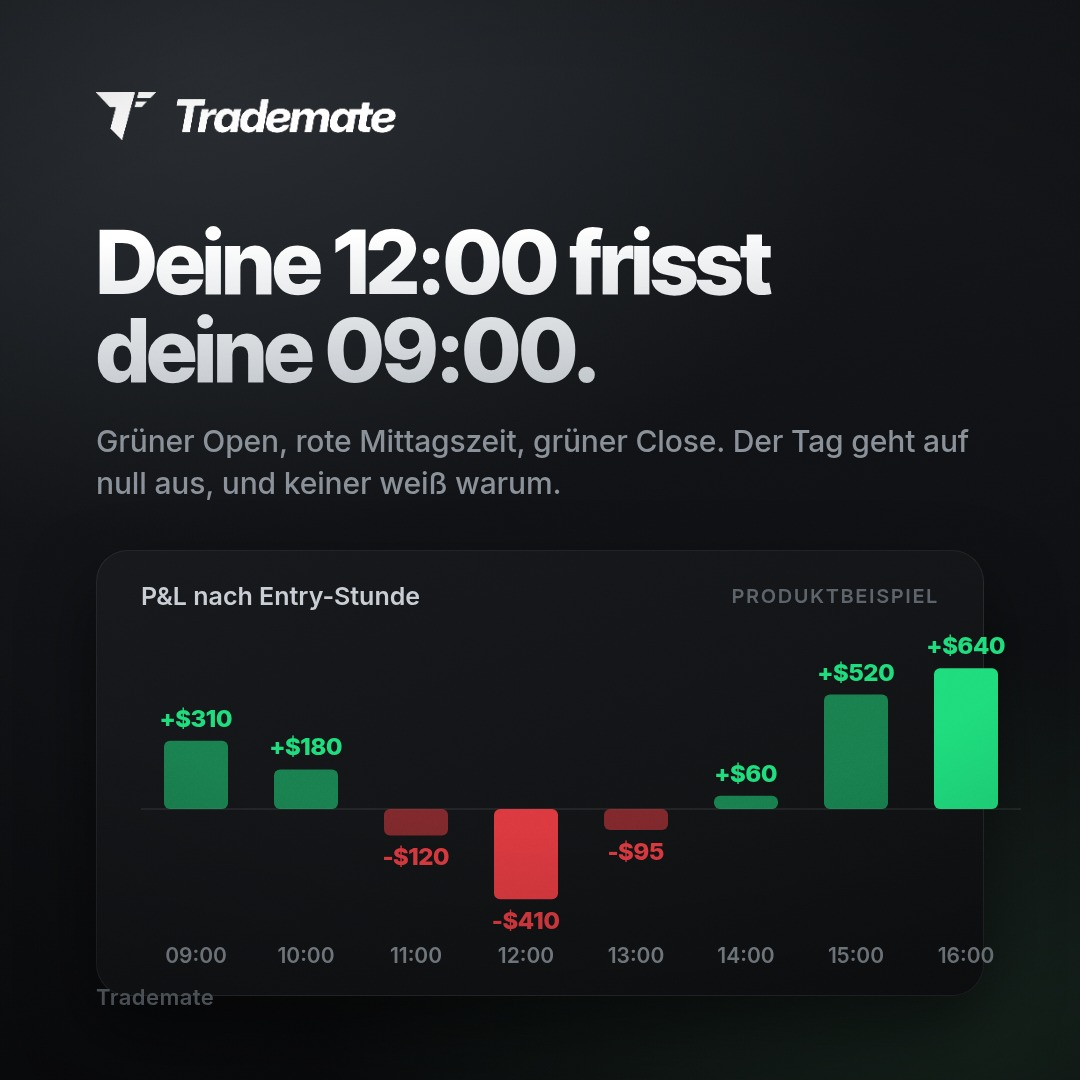
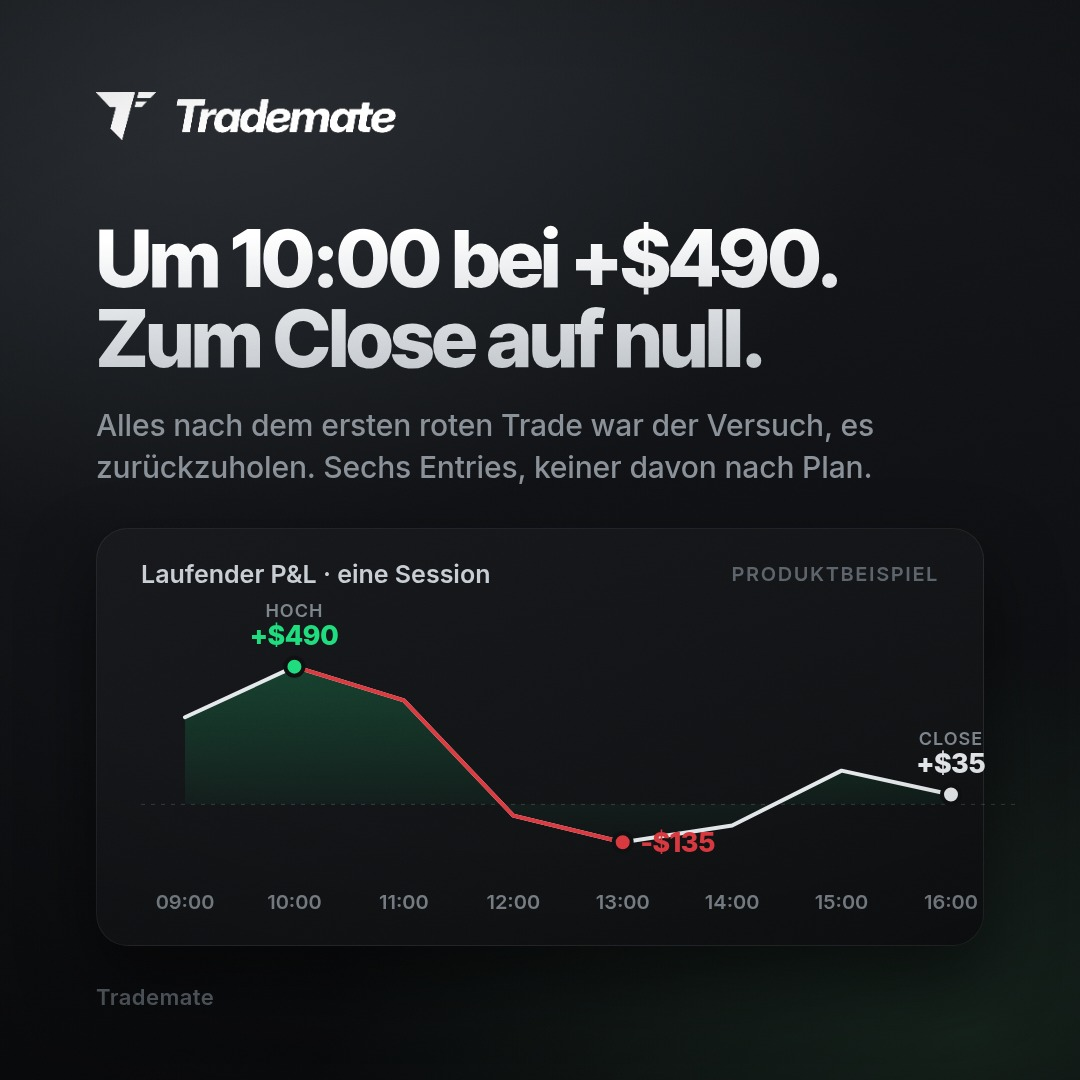
Pain posts: give-back curve and off-plan exits, sharper copy
Day post now shows one session as a running P&L - +$490 high, the red
give-back, +$35 at the close - instead of hourly bars. Swing post lists
six trades with an on-plan column, flags the two off-plan exits in red
and lets the month still read positive. Headlines shortened to two
lines; captions rewritten around the same two moments.

Claude-Session: https://claude.ai/code/session_01N2gUmRZUhZ4hqjJePYK53L

diff --git a/posts/pain-day-swing/src/post.html b/posts/pain-day-swing/src/post.html
@@ -111,11 +111,15 @@
   .rows>div span{font-family:'Inter';font-size:25px;font-weight:600;color:#c8ced4;}
   .rows>div b{font-size:34px;font-weight:800;letter-spacing:-.03em;}
   .rows>div.hi{background:linear-gradient(90deg,rgba(31,221,127,.12),rgba(31,221,127,0));margin:0 -14px;padding-left:14px;padding-right:14px;border-radius:12px;border-bottom-color:transparent;}
-  .rows .net{grid-column:1/-1;border-bottom:none;padding-top:18px;margin-top:4px;border-top:1px solid rgba(255,255,255,.14);}
+  .rows.one{grid-template-columns:1fr;gap:0;}
+  .rows.one>div{padding:8px 0;} .rows.one>div span{width:190px;font-size:24px;} .rows.one>div b{font-size:30px;width:130px;text-align:right;}
+  .rows.one>div em{font-style:normal;font-family:'Inter';font-size:22px;font-weight:600;color:#5d646b;flex:1;padding-left:20px;}
+  .rows.one>div.off em{color:#DC3A40;} .rows.one>div.off span{color:#fff;}
+  .rows .net{grid-column:1/-1;border-bottom:none;padding-top:14px;margin-top:2px;border-top:1px solid rgba(255,255,255,.14);}
   .rows .net span{font-size:27px;color:#fff;} .rows .net b{font-size:44px;}
-  body[data-slide="day"] .hl, body[data-slide="swing"] .hl{font-size:88px;}
+  body[data-slide="day"] .hl, body[data-slide="swing"] .hl{font-size:80px;}
   body[data-slide="day"] .sub, body[data-slide="swing"] .sub{font-size:30px;max-width:880px;}
-  body[data-lang="de"][data-slide="swing"] .sub{font-size:28px;margin-top:20px;}
+  body[data-slide="swing"] .sub{font-size:28px;margin-top:20px;}
   .disc{position:absolute;left:88px;right:88px;bottom:70px;text-align:center;font-family:'Inter';font-size:19px;font-weight:500;color:#5d646b;line-height:1.45;}
 </style></head>
 <body>
@@ -149,10 +153,10 @@ en:{
   stB:'Auto charts', stBd:'Every trade gets its chart attached automatically. Entry, exit, stop, target.',
   vote:'Vote below', zoneA:'Poll sticker goes here', zoneB:'Options: Backtesting · Auto charts',
   disc:'Product concept. Features shown are planned, not final.',
-  dayH:'Your 12:00 is eating your 09:00.', dayS:'Green open, red lunch, green close. The day nets out flat and nobody knows why.',
-  dayM:'P&L by entry hour', dayF:'Product example',
-  swH:'One trade carried the month.', swS:'Six swings. Five of them nearly cancelled out. The month is up 1.7R and you cannot tell yet if that was the setup or luck.',
-  swM:'This month · 6 swing trades', swN:'Net', swF:'Product example'
+  dayH:'Up $490 at 10:00. Flat at the close.', dayS:'Everything after the first red trade was an attempt to get it back. Six entries, none of them on the plan.',
+  dayM:'Running P&L · one session', dayF:'Product example', dayHi:'High', dayCl:'Close',
+  swH:'Three stops. Then you changed the rules.', swS:'The setup did not change. The trader did. Two of six exits were off plan, and they cost more than the stops.',
+  swM:'This month · 6 swing trades', swN:'Net', swF:'Product example', plan:'On plan', early:'Exited early', moved:'Stop moved'
 },
 de:{
   swipe:'Wischen →', brand:'Trademate', concept:'Konzept, kein finales UI', of:'von',
@@ -178,10 +182,10 @@ de:{
   stB:'Auto-Charts', stBd:'Jeder Trade bekommt seinen Chart automatisch angehängt. Entry, Exit, Stop, Ziel.',
   vote:'Stimm unten ab', zoneA:'Umfrage-Sticker hier platzieren', zoneB:'Optionen: Backtesting · Auto-Charts',
   disc:'Produktkonzept. Gezeigte Funktionen sind geplant, nicht final.',
-  dayH:'Deine 12:00 frisst deine 09:00.', dayS:'Grüner Open, rote Mittagszeit, grüner Close. Der Tag geht auf null aus, und keiner weiß warum.',
-  dayM:'P&L nach Entry-Stunde', dayF:'Produktbeispiel',
-  swH:'Ein Trade hat den Monat getragen.', swS:'Sechs Swings. Fünf davon haben sich fast aufgehoben. Der Monat steht bei +1,7R, und ob das Setup oder Glück war, weißt du noch nicht.',
-  swM:'Dieser Monat · 6 Swing-Trades', swN:'Netto', swF:'Produktbeispiel'
+  dayH:'Um 10:00 bei +$490. Zum Close auf null.', dayS:'Alles nach dem ersten roten Trade war der Versuch, es zurückzuholen. Sechs Entries, keiner davon nach Plan.',
+  dayM:'Laufender P&L · eine Session', dayF:'Produktbeispiel', dayHi:'Hoch', dayCl:'Close',
+  swH:'Drei Stops. Dann hast du die Regeln geändert.', swS:'Das Setup war dasselbe. Der Trader nicht. Zwei von sechs Exits liefen nicht nach Plan – und kosteten mehr als die Stops.',
+  swM:'Dieser Monat · 6 Swing-Trades', swN:'Netto', swF:'Produktbeispiel', plan:'Nach Plan', early:'Zu früh raus', moved:'Stop verschoben'
 }}[LANG];
 
 function candles(){ // deterministic little 5m chart for slide 6
@@ -204,6 +208,26 @@ function candles(){ // deterministic little 5m chart for slide 6
 
 const logo='<img class="logo" src="logo.png" alt="Trademate">';
 const foot=(n)=>'<div class="foot"><span>'+C.brand+'</span><span>'+(n<7?C.swipe:'')+'</span><span>'+n+' / 7</span></div>';
+function runningPnl(){
+  const pts=[['09:00',310],['10:00',490],['11:00',370],['12:00',-40],['13:00',-135],['14:00',-75],['15:00',120],['16:00',35]];
+  const W=880,H=330,padL=44,padR=70,top=54,bot=54,min=-230,max=560;
+  const x=i=>padL+i*(W-padL-padR)/(pts.length-1), y=v=>top+(max-v)/(max-min)*(H-top-bot);
+  let d=pts.map((p,i)=>(i?'L':'M')+x(i)+' '+y(p[1])).join(' ');
+  let s='<svg width="'+W+'" height="'+H+'" viewBox="0 0 '+W+' '+H+'">';
+  s+='<defs><linearGradient id="gA" x1="0" y1="0" x2="0" y2="1"><stop offset="0" stop-color="#1FDD7F" stop-opacity=".22"/><stop offset="1" stop-color="#1FDD7F" stop-opacity="0"/></linearGradient></defs>';
+  s+='<line x1="0" x2="'+W+'" y1="'+y(0)+'" y2="'+y(0)+'" stroke="rgba(255,255,255,.16)" stroke-dasharray="4 6"/>';
+  s+='<path d="'+d+' L'+x(pts.length-1)+' '+y(0)+' L'+x(0)+' '+y(0)+'Z" fill="url(#gA)"/>';
+  s+='<path d="'+d+'" fill="none" stroke="#e6e9ec" stroke-width="4" stroke-linejoin="round" stroke-linecap="round"/>';
+  // give-back segment in red
+  s+='<path d="M'+x(1)+' '+y(490)+' L'+x(2)+' '+y(370)+' L'+x(3)+' '+y(-40)+' L'+x(4)+' '+y(-135)+'" fill="none" stroke="#DC3A40" stroke-width="4" stroke-linejoin="round" stroke-linecap="round"/>';
+  pts.forEach((p,i)=>s+='<text x="'+x(i)+'" y="'+(H-14)+'" text-anchor="middle" font-family="Inter" font-size="20" font-weight="600" fill="#7e868d">'+p[0]+'</text>');
+  const mark=(i,v,l,col,dy,side)=>{s+='<circle cx="'+x(i)+'" cy="'+y(v)+'" r="9" fill="'+col+'" stroke="#0e1012" stroke-width="4"/>';
+    if(side){s+='<text x="'+(x(i)+18)+'" y="'+(y(v)+10)+'" font-family="Inter Tight" font-size="27" font-weight="800" fill="'+col+'">'+(v>=0?'+':'-')+'$'+Math.abs(v)+'</text>';return;}
+    s+='<text x="'+x(i)+'" y="'+(y(v)+dy)+'" text-anchor="middle" font-family="Inter Tight" font-size="27" font-weight="800" fill="'+col+'">'+(v>=0?'+':'-')+'$'+Math.abs(v)+'</text>';
+    s+='<text x="'+x(i)+'" y="'+(y(v)+dy+(dy<0?-28:26))+'" text-anchor="middle" font-family="Inter" font-size="18" font-weight="600" fill="#7e868d" letter-spacing="1">'+l.toUpperCase()+'</text>';};
+  mark(1,490,C.dayHi,'#1FDD7F',-22); mark(4,-135,'','#DC3A40',0,true); mark(7,35,C.dayCl,'#e6e9ec',-22);
+  return s+'</svg>';
+}
 function hourBars(){
   const d=[['09',310],['10',180],['11',-120],['12',-410],['13',-95],['14',60],['15',520],['16',640]];
   const W=880,H=350,base=190,sc=0.22,bw=64,gap=(W-8*bw)/8;
@@ -215,15 +239,15 @@ function hourBars(){
     s+='<text x="'+(x+bw/2)+'" y="'+(H-6)+'" text-anchor="middle" font-family="Inter" font-size="21" font-weight="600" fill="#7e868d">'+h+':00</text>';});
   return s+'</svg>';
 }
-const swingRows=[['AAPL','+1.2R'],['EURUSD','-1.0R'],['NVDA','-1.0R'],['XAUUSD','+0.4R'],['GBPJPY','-1.0R'],['MSFT','+3.1R']];
+const swingRows=[['AAPL','+1.2R','plan'],['EURUSD','-1.0R','plan'],['NVDA','-1.0R','plan'],['XAUUSD','+0.4R','early'],['GBPJPY','-1.4R','moved'],['MSFT','+3.1R','plan']];
 const S={
  day:()=>logo+'<div class="hl" style="margin-top:78px">'+C.dayH+'</div><div class="sub">'+C.dayS+'</div>'
-   +'<div class="card" style="margin-top:46px;padding:30px 44px 22px"><div class="hdr"><div class="t">'+C.dayM+'</div><div class="m">'+C.dayF+'</div></div><div style="margin-top:8px">'+hourBars()+'</div></div>'
+   +'<div class="card" style="margin-top:40px;padding:30px 44px 18px"><div class="hdr"><div class="t">'+C.dayM+'</div><div class="m">'+C.dayF+'</div></div><div style="margin-top:4px">'+runningPnl()+'</div></div>'
    +'<div class="foot"><span>'+C.brand+'</span><span></span><span></span></div>',
  swing:()=>logo+'<div class="hl" style="margin-top:78px">'+C.swH+'</div><div class="sub">'+C.swS+'</div>'
-   +'<div class="card" style="margin-top:40px;padding:30px 44px 26px"><div class="hdr"><div class="t">'+C.swM+'</div><div class="m">'+C.swF+'</div></div>'
-   +'<div class="rows">'+swingRows.map(([a,b],i)=>'<div'+(i===5?' class="hi"':'')+'><span>'+a+'</span><b class="'+(b[0]==='+'?'g':'r')+'">'+b+'</b></div>').join('')
-   +'<div class="net"><span>'+C.swN+'</span><b class="g">+1.7R</b></div></div></div>'
+   +'<div class="card" style="margin-top:34px;padding:28px 44px 22px"><div class="hdr"><div class="t">'+C.swM+'</div><div class="m">'+C.swF+'</div></div>'
+   +'<div class="rows one">'+swingRows.map(([a,b,n])=>'<div'+(n!=='plan'?' class="off"':'')+'><span>'+a+'</span><em>'+C[n]+'</em><b class="'+(b[0]==='+'?'g':'r')+'">'+b+'</b></div>').join('')
+   +'<div class="net"><span>'+C.swN+'</span><b class="g">+1.3R</b></div></div></div>'
    +'<div class="foot"><span>'+C.brand+'</span><span></span><span></span></div>',
  1:()=>logo+'<div class="eyebrow">'+C.s1e+'</div><div class="hl">'+C.s1h+'</div><div class="sub">'+C.s1s+'</div>'+foot(1),
  2:()=>logo+'<div class="hl" style="margin-top:70px">'+C.s2h+'</div><div class="cols"><div class="col"><h3>'+C.day+'</h3><ul>'+C.d.map(x=>'<li>'+x+'</li>').join('')+'</ul></div><div class="col s"><h3>'+C.swing+'</h3><ul>'+C.s.map(x=>'<li>'+x+'</li>').join('')+'</ul></div></div>'+foot(2),

diff --git a/posts/story-feature-poll/src/post.html b/posts/story-feature-poll/src/post.html
@@ -111,11 +111,15 @@
   .rows>div span{font-family:'Inter';font-size:25px;font-weight:600;color:#c8ced4;}
   .rows>div b{font-size:34px;font-weight:800;letter-spacing:-.03em;}
   .rows>div.hi{background:linear-gradient(90deg,rgba(31,221,127,.12),rgba(31,221,127,0));margin:0 -14px;padding-left:14px;padding-right:14px;border-radius:12px;border-bottom-color:transparent;}
-  .rows .net{grid-column:1/-1;border-bottom:none;padding-top:18px;margin-top:4px;border-top:1px solid rgba(255,255,255,.14);}
+  .rows.one{grid-template-columns:1fr;gap:0;}
+  .rows.one>div{padding:8px 0;} .rows.one>div span{width:190px;font-size:24px;} .rows.one>div b{font-size:30px;width:130px;text-align:right;}
+  .rows.one>div em{font-style:normal;font-family:'Inter';font-size:22px;font-weight:600;color:#5d646b;flex:1;padding-left:20px;}
+  .rows.one>div.off em{color:#DC3A40;} .rows.one>div.off span{color:#fff;}
+  .rows .net{grid-column:1/-1;border-bottom:none;padding-top:14px;margin-top:2px;border-top:1px solid rgba(255,255,255,.14);}
   .rows .net span{font-size:27px;color:#fff;} .rows .net b{font-size:44px;}
-  body[data-slide="day"] .hl, body[data-slide="swing"] .hl{font-size:88px;}
+  body[data-slide="day"] .hl, body[data-slide="swing"] .hl{font-size:80px;}
   body[data-slide="day"] .sub, body[data-slide="swing"] .sub{font-size:30px;max-width:880px;}
-  body[data-lang="de"][data-slide="swing"] .sub{font-size:28px;margin-top:20px;}
+  body[data-slide="swing"] .sub{font-size:28px;margin-top:20px;}
   .disc{position:absolute;left:88px;right:88px;bottom:70px;text-align:center;font-family:'Inter';font-size:19px;font-weight:500;color:#5d646b;line-height:1.45;}
 </style></head>
 <body>
@@ -149,10 +153,10 @@ en:{
   stB:'Auto charts', stBd:'Every trade gets its chart attached automatically. Entry, exit, stop, target.',
   vote:'Vote below', zoneA:'Poll sticker goes here', zoneB:'Options: Backtesting · Auto charts',
   disc:'Product concept. Features shown are planned, not final.',
-  dayH:'Your 12:00 is eating your 09:00.', dayS:'Green open, red lunch, green close. The day nets out flat and nobody knows why.',
-  dayM:'P&L by entry hour', dayF:'Product example',
-  swH:'One trade carried the month.', swS:'Six swings. Five of them nearly cancelled out. The month is up 1.7R and you cannot tell yet if that was the setup or luck.',
-  swM:'This month · 6 swing trades', swN:'Net', swF:'Product example'
+  dayH:'Up $490 at 10:00. Flat at the close.', dayS:'Everything after the first red trade was an attempt to get it back. Six entries, none of them on the plan.',
+  dayM:'Running P&L · one session', dayF:'Product example', dayHi:'High', dayCl:'Close',
+  swH:'Three stops. Then you changed the rules.', swS:'The setup did not change. The trader did. Two of six exits were off plan, and they cost more than the stops.',
+  swM:'This month · 6 swing trades', swN:'Net', swF:'Product example', plan:'On plan', early:'Exited early', moved:'Stop moved'
 },
 de:{
   swipe:'Wischen →', brand:'Trademate', concept:'Konzept, kein finales UI', of:'von',
@@ -178,10 +182,10 @@ de:{
   stB:'Auto-Charts', stBd:'Jeder Trade bekommt seinen Chart automatisch angehängt. Entry, Exit, Stop, Ziel.',
   vote:'Stimm unten ab', zoneA:'Umfrage-Sticker hier platzieren', zoneB:'Optionen: Backtesting · Auto-Charts',
   disc:'Produktkonzept. Gezeigte Funktionen sind geplant, nicht final.',
-  dayH:'Deine 12:00 frisst deine 09:00.', dayS:'Grüner Open, rote Mittagszeit, grüner Close. Der Tag geht auf null aus, und keiner weiß warum.',
-  dayM:'P&L nach Entry-Stunde', dayF:'Produktbeispiel',
-  swH:'Ein Trade hat den Monat getragen.', swS:'Sechs Swings. Fünf davon haben sich fast aufgehoben. Der Monat steht bei +1,7R, und ob das Setup oder Glück war, weißt du noch nicht.',
-  swM:'Dieser Monat · 6 Swing-Trades', swN:'Netto', swF:'Produktbeispiel'
+  dayH:'Um 10:00 bei +$490. Zum Close auf null.', dayS:'Alles nach dem ersten roten Trade war der Versuch, es zurückzuholen. Sechs Entries, keiner davon nach Plan.',
+  dayM:'Laufender P&L · eine Session', dayF:'Produktbeispiel', dayHi:'Hoch', dayCl:'Close',
+  swH:'Drei Stops. Dann hast du die Regeln geändert.', swS:'Das Setup war dasselbe. Der Trader nicht. Zwei von sechs Exits liefen nicht nach Plan – und kosteten mehr als die Stops.',
+  swM:'Dieser Monat · 6 Swing-Trades', swN:'Netto', swF:'Produktbeispiel', plan:'Nach Plan', early:'Zu früh raus', moved:'Stop verschoben'
 }}[LANG];
 
 function candles(){ // deterministic little 5m chart for slide 6
@@ -204,6 +208,26 @@ function candles(){ // deterministic little 5m chart for slide 6
 
 const logo='<img class="logo" src="logo.png" alt="Trademate">';
 const foot=(n)=>'<div class="foot"><span>'+C.brand+'</span><span>'+(n<7?C.swipe:'')+'</span><span>'+n+' / 7</span></div>';
+function runningPnl(){
+  const pts=[['09:00',310],['10:00',490],['11:00',370],['12:00',-40],['13:00',-135],['14:00',-75],['15:00',120],['16:00',35]];
+  const W=880,H=330,padL=44,padR=70,top=54,bot=54,min=-230,max=560;
+  const x=i=>padL+i*(W-padL-padR)/(pts.length-1), y=v=>top+(max-v)/(max-min)*(H-top-bot);
+  let d=pts.map((p,i)=>(i?'L':'M')+x(i)+' '+y(p[1])).join(' ');
+  let s='<svg width="'+W+'" height="'+H+'" viewBox="0 0 '+W+' '+H+'">';
+  s+='<defs><linearGradient id="gA" x1="0" y1="0" x2="0" y2="1"><stop offset="0" stop-color="#1FDD7F" stop-opacity=".22"/><stop offset="1" stop-color="#1FDD7F" stop-opacity="0"/></linearGradient></defs>';
+  s+='<line x1="0" x2="'+W+'" y1="'+y(0)+'" y2="'+y(0)+'" stroke="rgba(255,255,255,.16)" stroke-dasharray="4 6"/>';
+  s+='<path d="'+d+' L'+x(pts.length-1)+' '+y(0)+' L'+x(0)+' '+y(0)+'Z" fill="url(#gA)"/>';
+  s+='<path d="'+d+'" fill="none" stroke="#e6e9ec" stroke-width="4" stroke-linejoin="round" stroke-linecap="round"/>';
+  // give-back segment in red
+  s+='<path d="M'+x(1)+' '+y(490)+' L'+x(2)+' '+y(370)+' L'+x(3)+' '+y(-40)+' L'+x(4)+' '+y(-135)+'" fill="none" stroke="#DC3A40" stroke-width="4" stroke-linejoin="round" stroke-linecap="round"/>';
+  pts.forEach((p,i)=>s+='<text x="'+x(i)+'" y="'+(H-14)+'" text-anchor="middle" font-family="Inter" font-size="20" font-weight="600" fill="#7e868d">'+p[0]+'</text>');
+  const mark=(i,v,l,col,dy,side)=>{s+='<circle cx="'+x(i)+'" cy="'+y(v)+'" r="9" fill="'+col+'" stroke="#0e1012" stroke-width="4"/>';
+    if(side){s+='<text x="'+(x(i)+18)+'" y="'+(y(v)+10)+'" font-family="Inter Tight" font-size="27" font-weight="800" fill="'+col+'">'+(v>=0?'+':'-')+'$'+Math.abs(v)+'</text>';return;}
+    s+='<text x="'+x(i)+'" y="'+(y(v)+dy)+'" text-anchor="middle" font-family="Inter Tight" font-size="27" font-weight="800" fill="'+col+'">'+(v>=0?'+':'-')+'$'+Math.abs(v)+'</text>';
+    s+='<text x="'+x(i)+'" y="'+(y(v)+dy+(dy<0?-28:26))+'" text-anchor="middle" font-family="Inter" font-size="18" font-weight="600" fill="#7e868d" letter-spacing="1">'+l.toUpperCase()+'</text>';};
+  mark(1,490,C.dayHi,'#1FDD7F',-22); mark(4,-135,'','#DC3A40',0,true); mark(7,35,C.dayCl,'#e6e9ec',-22);
+  return s+'</svg>';
+}
 function hourBars(){
   const d=[['09',310],['10',180],['11',-120],['12',-410],['13',-95],['14',60],['15',520],['16',640]];
   const W=880,H=350,base=190,sc=0.22,bw=64,gap=(W-8*bw)/8;
@@ -215,15 +239,15 @@ function hourBars(){
     s+='<text x="'+(x+bw/2)+'" y="'+(H-6)+'" text-anchor="middle" font-family="Inter" font-size="21" font-weight="600" fill="#7e868d">'+h+':00</text>';});
   return s+'</svg>';
 }
-const swingRows=[['AAPL','+1.2R'],['EURUSD','-1.0R'],['NVDA','-1.0R'],['XAUUSD','+0.4R'],['GBPJPY','-1.0R'],['MSFT','+3.1R']];
+const swingRows=[['AAPL','+1.2R','plan'],['EURUSD','-1.0R','plan'],['NVDA','-1.0R','plan'],['XAUUSD','+0.4R','early'],['GBPJPY','-1.4R','moved'],['MSFT','+3.1R','plan']];
 const S={
  day:()=>logo+'<div class="hl" style="margin-top:78px">'+C.dayH+'</div><div class="sub">'+C.dayS+'</div>'
-   +'<div class="card" style="margin-top:46px;padding:30px 44px 22px"><div class="hdr"><div class="t">'+C.dayM+'</div><div class="m">'+C.dayF+'</div></div><div style="margin-top:8px">'+hourBars()+'</div></div>'
+   +'<div class="card" style="margin-top:40px;padding:30px 44px 18px"><div class="hdr"><div class="t">'+C.dayM+'</div><div class="m">'+C.dayF+'</div></div><div style="margin-top:4px">'+runningPnl()+'</div></div>'
    +'<div class="foot"><span>'+C.brand+'</span><span></span><span></span></div>',
  swing:()=>logo+'<div class="hl" style="margin-top:78px">'+C.swH+'</div><div class="sub">'+C.swS+'</div>'
-   +'<div class="card" style="margin-top:40px;padding:30px 44px 26px"><div class="hdr"><div class="t">'+C.swM+'</div><div class="m">'+C.swF+'</div></div>'
-   +'<div class="rows">'+swingRows.map(([a,b],i)=>'<div'+(i===5?' class="hi"':'')+'><span>'+a+'</span><b class="'+(b[0]==='+'?'g':'r')+'">'+b+'</b></div>').join('')
-   +'<div class="net"><span>'+C.swN+'</span><b class="g">+1.7R</b></div></div></div>'
+   +'<div class="card" style="margin-top:34px;padding:28px 44px 22px"><div class="hdr"><div class="t">'+C.swM+'</div><div class="m">'+C.swF+'</div></div>'
+   +'<div class="rows one">'+swingRows.map(([a,b,n])=>'<div'+(n!=='plan'?' class="off"':'')+'><span>'+a+'</span><em>'+C[n]+'</em><b class="'+(b[0]==='+'?'g':'r')+'">'+b+'</b></div>').join('')
+   +'<div class="net"><span>'+C.swN+'</span><b class="g">+1.3R</b></div></div></div>'
    +'<div class="foot"><span>'+C.brand+'</span><span></span><span></span></div>',
  1:()=>logo+'<div class="eyebrow">'+C.s1e+'</div><div class="hl">'+C.s1h+'</div><div class="sub">'+C.s1s+'</div>'+foot(1),
  2:()=>logo+'<div class="hl" style="margin-top:70px">'+C.s2h+'</div><div class="cols"><div class="col"><h3>'+C.day+'</h3><ul>'+C.d.map(x=>'<li>'+x+'</li>').join('')+'</ul></div><div class="col s"><h3>'+C.swing+'</h3><ul>'+C.s.map(x=>'<li>'+x+'</li>').join('')+'</ul></div></div>'+foot(2),

diff --git a/posts/pain-day-swing/captions.md b/posts/pain-day-swing/captions.md
@@ -3,54 +3,59 @@
 Two independent 1080×1080 posts in the daily-post format, EN and DE. Neither
 mentions a feature or the poll.
 
-## pain_day — "Your 12:00 is eating your 09:00."
+## pain_day — "Up $490 at 10:00. Flat at the close."
 
 EN
-The open was green, the close was green, and the day still finished flat.
-The hours in between did that. Three losing entries around lunch took back
-what the first two hours made, and by 16:00 you were trading to get even, not
-to get paid. Product example: these figures illustrate the feature, not real
-trader results.
+Up $490 an hour into the session. Flat at the bell. The chart of that day is
+not a chart of the market — it is a chart of one trader chasing the first
+red trade. Six entries after 11:00, none of them on the plan, every one of
+them an attempt to get back to +$490. The give-back is the most expensive
+hour of the day, and it never shows up in the win rate. Product example:
+these figures illustrate the feature, not real trader results.
 
-See your own day by the hour — 7-day trial, link in bio.
+See your session as a running P&L — 7-day trial, link in bio.
 
-#daytrading #tradingjournal #tradinganalytics #tradingpsychology #tradingedge
+#daytrading #tradingpsychology #tradingjournal #riskmanagement #tradingedge
 
 DE
-Der Open war grün, der Close war grün, und der Tag ging trotzdem auf null
-aus. Die Stunden dazwischen haben das erledigt. Drei Verlust-Entries um die
-Mittagszeit haben zurückgeholt, was die ersten zwei Stunden verdient hatten,
-und ab 16:00 hast du gehandelt, um quitt zu werden, nicht um zu verdienen.
+Eine Stunde nach Open +$490. Zum Close auf null. Der Chart dieses Tages ist
+kein Chart vom Markt — er ist der Chart eines Traders, der dem ersten roten
+Trade hinterherläuft. Sechs Entries nach 11:00, keiner davon nach Plan, jeder
+ein Versuch, zurück auf +$490 zu kommen. Das Zurückgeben ist die teuerste
+Stunde des Tages, und in der Trefferquote taucht sie nie auf.
 Produktbeispiel: Die Zahlen veranschaulichen die Funktion, keine echten
 Handelsergebnisse.
 
-Sieh deinen eigenen Tag nach Stunden — 7 Tage kostenlos, Link in Bio.
+Sieh deine Session als laufenden P&L — 7 Tage kostenlos, Link in Bio.
 
-#daytrading #tradingjournal #tradinganalytics #tradingpsychologie #tradingedge
+#daytrading #tradingpsychologie #tradingjournal #riskmanagement #tradingedge
 
-## pain_swing — "One trade carried the month."
+## pain_swing — "Three stops. Then you changed the rules."
 
 EN
-Six swing trades. Three stopped out at −1R, one scratched, one small win, and
-one runner at +3.1R that made the whole month. Up 1.7R on paper — and no way
-to tell yet whether that runner is the setup working or one good week. At six
-trades a month, that answer takes another year. Product example: these
-figures illustrate the feature, not real trader results.
+Three stops in a row is the setup doing what setups do. What happened on the
+fourth trade is the part that costs money: out early at +0.4R on a trade
+that was planned for +2R, then a stop moved on the fifth that turned −1R into
+−1.4R. The setup did not change. The trader did. Two off-plan exits cost more
+than the three stops combined, and the month still reads +1.3R — which is
+exactly why nobody notices. Product example: these figures illustrate the
+feature, not real trader results.
 
-Track your setups in R — Trademate, link in bio.
+Tag every off-plan exit — Trademate, link in bio.
 
-#swingtrading #tradingjournal #riskmanagement #tradingedge #tradingdata
+#swingtrading #tradingdiscipline #tradingjournal #riskmanagement #tradingpsychology
 
 DE
-Sechs Swing-Trades. Drei bei −1R ausgestoppt, einer knapp im Plus, ein kleiner
-Gewinn und ein Runner mit +3,1R, der den ganzen Monat gemacht hat. Auf dem
-Papier +1,7R — und keine Möglichkeit zu sagen, ob dieser Runner das Setup war
-oder eine gute Woche. Bei sechs Trades im Monat dauert diese Antwort noch ein
-Jahr. Produktbeispiel: Die Zahlen veranschaulichen die Funktion, keine echten
-Handelsergebnisse.
+Drei Stops in Folge sind das Setup, das tut, was Setups tun. Was beim vierten
+Trade passiert, ist der Teil, der Geld kostet: raus bei +0,4R in einem Trade,
+der auf +2R geplant war, dann beim fünften ein verschobener Stop, der aus −1R
+−1,4R macht. Das Setup war dasselbe. Der Trader nicht. Zwei Exits gegen den
+Plan kosteten mehr als die drei Stops zusammen, und der Monat steht trotzdem
+bei +1,3R — genau deshalb fällt es niemandem auf. Produktbeispiel: Die Zahlen
+veranschaulichen die Funktion, keine echten Handelsergebnisse.
 
-Tracke deine Setups in R — Trademate, Link in Bio.
+Tagge jeden Exit gegen den Plan — Trademate, Link in Bio.
 
-#swingtrading #tradingjournal #riskmanagement #tradingedge #tradingdata
+#swingtrading #tradingdisziplin #tradingjournal #riskmanagement #tradingpsychologie
 
 Re-render: `node src/render.js pain` (needs the toolchain from `video/m8-ai`).
